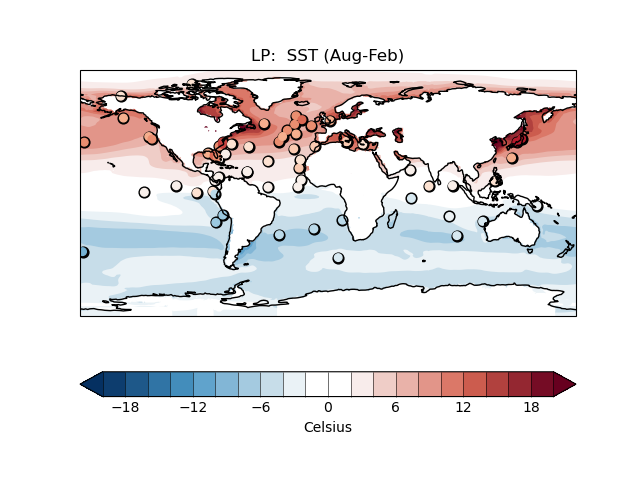
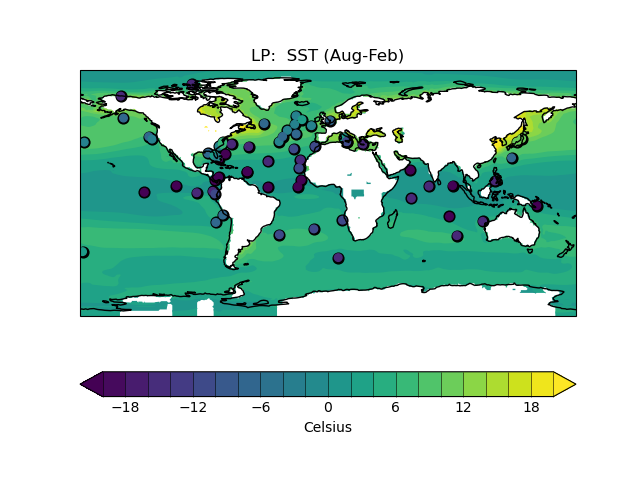
program for Harry seasonality

diff --git a/PLIOMIP3/collaborators/Harry/seasonality_pliomip2.py b/PLIOMIP3/collaborators/Harry/seasonality_pliomip2.py
@@ -1,11 +1,13 @@
 import numpy as np
 import iris
 import matplotlib.pyplot as plt
+import iris.plot as iplt
 import iris.quickplot as qplt
 import matplotlib.cm as cm
 import matplotlib.colors as colors
 from matplotlib.colors import ListedColormap, LinearSegmentedColormap
 import cartopy.crs as ccrs
+import sys
 
 def make_cmap(colors, position=None, bit=False):
     '''
@@ -77,11 +79,7 @@ def read_harry_data():
             lats[i-1] = b
             lons[i-1] = c
             site[i-1] = a
-            # i think if it is SH then multiply by -1
-            if float(b) < 0.0:
-                seasonality[i-1]=float(d) * (-1.0)
-            else:
-                seasonality[i-1]=d
+            seasonality[i-1]=d
        
     return lats,lons,seasonality,site
 
@@ -103,7 +101,7 @@ def get_pliomip2_mean(latreq,lonreq):
     #julcube = cube[6,:,:]
     augcube = cube[7,:,:]
 
-    seascube = augcube - febcube
+    seascube = augcube.copy(data=np.abs(augcube.data - febcube.data))
     cubelats = seascube.coord('latitude').points
     cubelons = seascube.coord('longitude').points
 
@@ -136,28 +134,29 @@ def plot(seascube,datalon,datalat,dataseas,modelseas):
 
     # plot model
 
-    V= np.arange(-20,22,2)
-    mycmap = customise_cmap2()
+    V= np.arange(0.0,16.0,2.0)
+    print(V)
+    #mycmap = customise_cmap2()
+    mycmap=plt.cm.Reds
+  
 
-    
-    qplt.contourf(seascube,levels=np.arange(-20,22,2),cmap=mycmap,
-                  extend='both')
+    qplt.contourf(seascube,levels=V,extend='max',cmap=mycmap) 
+    #qplt.contourf(seascube,levels=V,cmap=mycmap,extend='max')
     plt.gca().coastlines()
-    plt.title('LP:  SST (Aug-Feb)')
-
+    plt.title('LP: ABS( SST (Aug-Feb))')
     
 
     # overplot data
   
     norm = colors.BoundaryNorm(boundaries=V,ncolors=mycmap.N)
-
+  
     plt.scatter(datalon, datalat, c='black',  marker='o',
                 s=60, transform=ccrs.Geodetic())
 
     plt.scatter(datalon, datalat, c=dataseas,  marker='o', s=30,
-                norm = norm , cmap='RdBu_r', transform=ccrs.Geodetic())
+                norm = norm , cmap=mycmap , transform=ccrs.Geodetic())
 
-    plt.savefig('data_model_comparison.png')
+    plt.savefig('data_model_comparison_abs.png')
 
 
 # main program
@@ -165,7 +164,7 @@ def plot(seascube,datalon,datalat,dataseas,modelseas):
 
 datalat,datalon,dataseas,datasite = read_harry_data()
 
-# 2 get model output
+# 2 get model output (we want seasonality to return absolute value)
 
 modelseas,seascube = get_pliomip2_mean(datalat,datalon)
 
